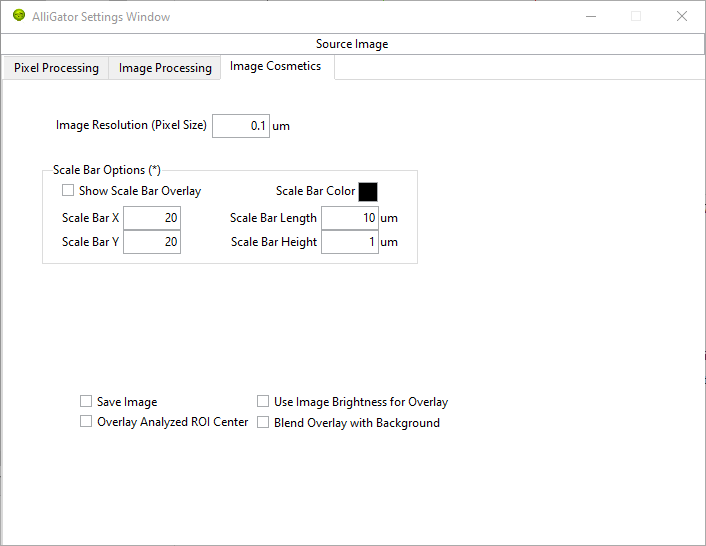
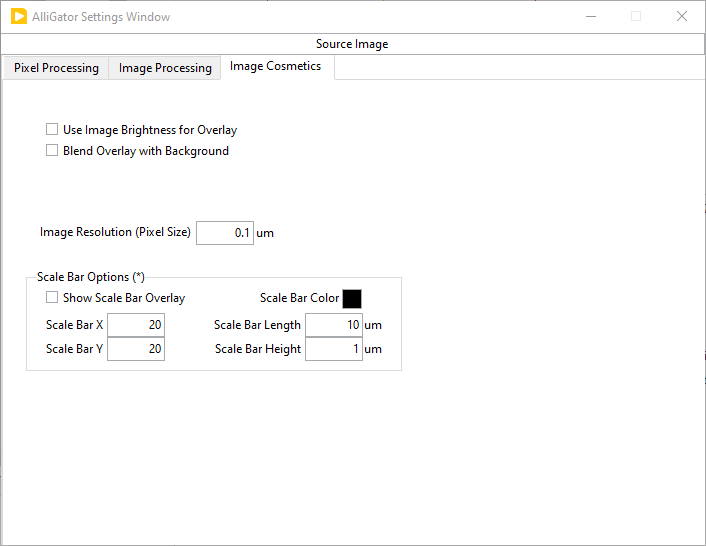
AlliGator documentation update

diff --git a/docs/source/alligator-settings-window.rst b/docs/source/alligator-settings-window.rst
@@ -13,11 +13,15 @@ top page selector:
    :align: center
 
 The different pages are described in the sections below.
-Note that any value change done in the **Settings** window immediately takes effect and is reflected in the corresponding AlliGator window *control* (if there is one).
+Note that any value change done in the **Settings** window immediately takes 
+effect and is reflected in the corresponding AlliGator window *control* (if 
+there is one).
 
-Inversely, any change to a control in the **AlliGator** window is immediately reflected in the **Settings** window.
+Inversely, any change to a control in the **AlliGator** window is immediately 
+reflected in the **Settings** window.
 
-The value of the Settings controls are saved when AlliGator quits, and reloaded when it is restarted.
+The value of the Settings controls are saved when AlliGator quits, and reloaded 
+when it is restarted.
 
 .. _alligator-settings-source-image:
 
@@ -70,9 +74,9 @@ The **Source Image** panel is comprised of 3 sub-panels:
     * *Background High Threshold Factor*: this factor (:math:`B`) is multiplied 
       by the *mode* :math:`M` of the image histogram (computed with 256 bins) 
       to obtain :math:`Max_B = B M`.
-    * *Fixed High Background Threshold*: fixed quantity :math:`Max_T`, for instance 
-      estimated using the *Max* cursor of the Image Histogram to highlight 
-      pixels in the image above that value.
+    * *Fixed High Background Threshold*: fixed quantity :math:`Max_T`, for 
+      instance estimated using the *Max* cursor of the Image Histogram to 
+      highlight pixels in the image above that value.
     * *High Percentile*: value :math:`P_{max}` defining :math:`MaxP` such that 
       :math:`P_{max}` percent of all pixels have intensity :math:`I \le Max_P`.
 
@@ -81,7 +85,8 @@ The **Source Image** panel is comprised of 3 sub-panels:
   take effect).
 
     * *Remove Hot Pixels*: when checked off, applied hot pixel removal algorithm.
-    * *Percentile*: percentaile of high intensity pixels to consider as hot pixels.
+    * *Percentile*: percentaile of high intensity pixels to consider as hot 
+      pixels.
     * *Use Hot Pixel Mask*: when checked off, ignores the *Percentile* parameter 
       and used the *Hot Pixel Mask Image* instead.
     * *Hot Pixel Mask Image*: path of the mask (binary) image identifying hot 
@@ -97,12 +102,19 @@ The **Source Image** panel is comprised of 3 sub-panels:
     * *ROI Diameter* (in pixel): used in conjunction with the previous option.
     * *ROI Center Color*: used to locate the center of the last ROI whose decay 
       was processed (interactive mode only).
+    * *Overlay Analyzed ROI Center*: if checked off, the center of the analyzed 
+      ROI is highlighted using the 
+
+- *ROI Creation*
+
+    * *Invert Binary Mask*: check off this box to use binary mask images with 
+      regions of interest labeled with a value larger than the background.
     * *Peak Threshold*: *Min* parameter used in the "Create ROI(s) from Pixels 
       with Peak above Min" right-click menu function of the *Source Image*.
     * *Intensity Threshold*: *Min* parameter used in the "Create ROI(s) from 
       Pixels with Intensity above Min" right-click menu function of the *Source 
       Image*.
-
+      
 - *Image Pre-Processing Operations Order*: ordered drop-down list of operations 
   (optionally) applied to each gate image. Right-click on the list to access the 
   *Reorder Operations* dialog window.
@@ -112,9 +124,11 @@ The **Source Image** panel is comprised of 3 sub-panels:
     * *Use Image Binning*: check off this box to apply binning to gate images.
     * X/Y Bin*: binning parameter for each dimension.
 
-- *Image Smoothing Options*: requires reloading the current dataset to be applied.
+- *Image Smoothing Options*: requires reloading the current dataset to be 
+  applied.
 
-    * *Use Image Smoothing*: check off this box to apply smoothing to gate images.
+    * *Use Image Smoothing*: check off this box to apply smoothing to gate 
+      images.
     * *Type*:
 
       + *Uniform*: each pixel is replaced by an average of itself and its 
@@ -133,8 +147,23 @@ The **Source Image** panel is comprised of 3 sub-panels:
       + *Thorough*: treats borders properly but can be significantly slower for 
         large datasets.
 
+- *Save Image*: check off this box to save the displayed image with its overlay 
+  each time a new dataset is loaded. The file is saved in the *Saved Displayed 
+  Image Format* specified in the **Miscellaneous** Settings panel, in the same 
+  folder as the current dataset, with the dataset name to which the image type 
+  (Gate n, White Light or Total Intensity) is appended.
+
 .. image:: images/AlliGator-Settings-Source-Image-Cosmetics.png
    :align: center
+
+- *Use Image Brightness for Overlay*: when used, this option scales the pixel 
+  overlay color by the factor :math:`\lambda = (I - range_{min})/(range_{max} 
+  - range_{min})`, where *I* is the pixel's intensity.
+
+- *Blend Overlay with Background*: when used, this option replaces the pixel 
+  overlay color by :math:`\lambda O + (1-\lambda) B`, where *O* is the 
+  unscaled overlay color and *B* the underlying pixel color according to the 
+  source image color scale.
 
 - *Image Resolution (Pixel Size)*: information used to overlay a scale bar on 
   the image (see *Scale Bar Options* below).
@@ -144,16 +173,11 @@ The **Source Image** panel is comprised of 3 sub-panels:
 
     * *Show Scale Bar Overlay*: check this off to automaticxally show the scale 
       bar when loading a new dataset.
-    * *Scale Bar X/Y*: location of the scale bar in pixel unit. X = 0 corresponds 
+    * *Scale Bar X/Y*: location of the scale bar in pixel unit. X = 0 
+      corresponds 
       to the left of the image. Y = 0 corresponds to the top of the image.
-    * *Scale Bar Lenght/Height*: dimension of the displayed scale bar in physical 
-      units.
-
-- *Save Image*: check off this box to save the displayed image with its overlay 
-  each time a new dataset is loaded. The file is saved in the *Saved Displayed 
-  Image Format* specified in the **Miscellaneous** Settings panel, in the same 
-  folder as the current dataset, with the dataset name to which the image type 
-  (Gate n, White Light or Total Intensity) is appended.
+    * *Scale Bar Lenght/Height*: dimension of the displayed scale bar in 
+      physical units.
 
 .. _alligator-settings-data-information:
 

diff --git a/docs/source/alligator-overview.rst b/docs/source/alligator-overview.rst
@@ -9,3 +9,5 @@ It was initially developed as part of a collaborative project described in ref.
 
 If you are using AlliGator in a publication or otherwise, please consider citing
 this reference.
+
+A changelog can be found in the AlliGator Github repository `here <https://github.com/smXplorer/AlliGator/blob/main/docs/source/alligator-version-history.rst>`_

diff --git a/docs/source/index.rst b/docs/source/index.rst
@@ -22,7 +22,6 @@ Contents
    alligator-tutorials
    alligator-shortcuts
    alligator-installation
-   alligator-version-history
    alligator-bibliography
    alligator-acknowledgements
    alligator-support
